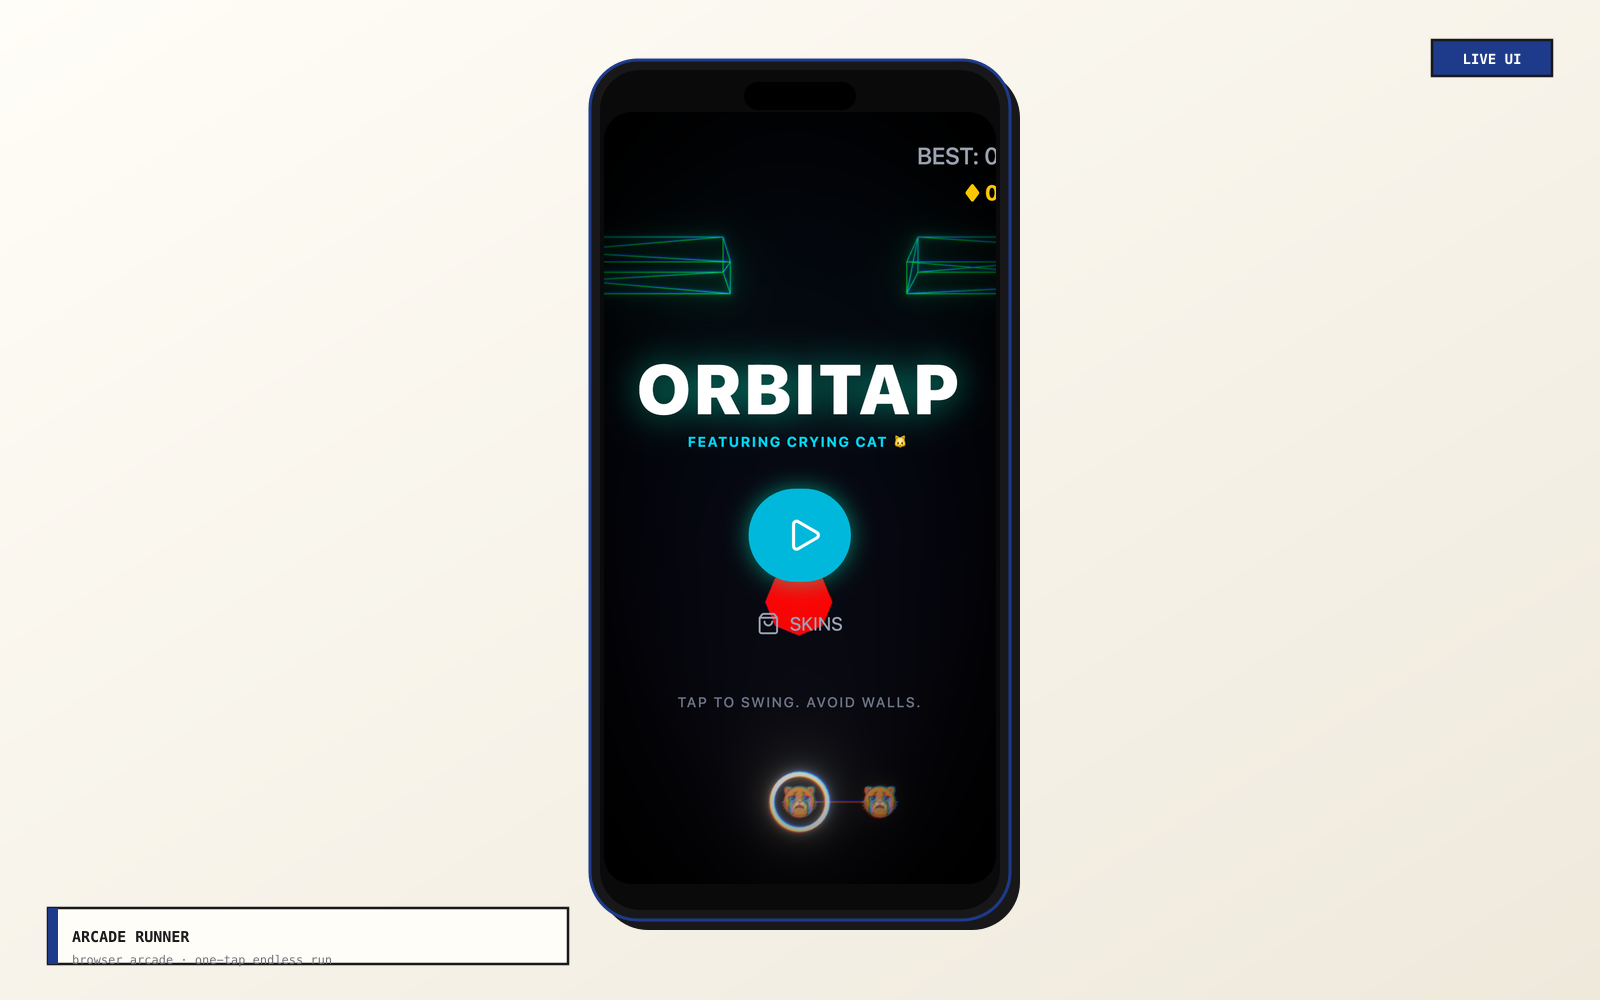
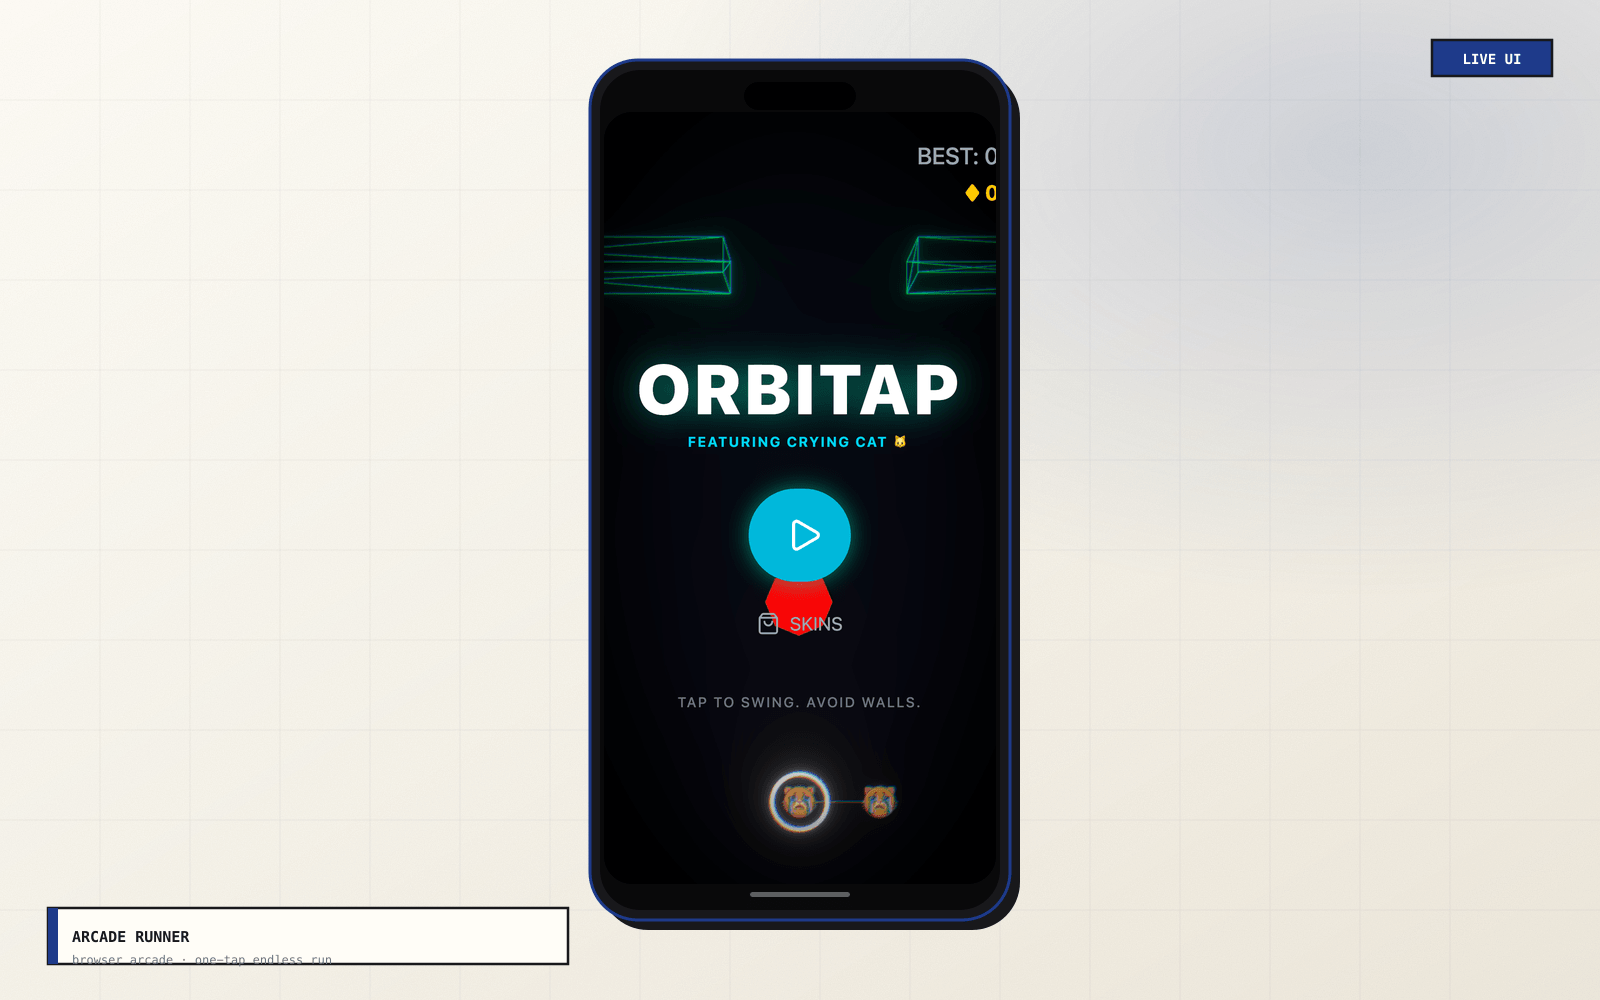
fix(portfolio): restore live product phone frames and refine Bio-Tactical description

Changed region(s): [[0.625, 0.0, 1.0, 0.372], [0.4688, 0.868, 0.5312, 0.899]]

diff --git a/src/data/games.ts b/src/data/games.ts
@@ -339,13 +339,13 @@ export const caseStudies: PortfolioProject[] = [
     narrative:
       "Mission Control for broadcast sports: turn ordinary single-camera match footage into calibrated 3D skeletal telemetry, real-time counterfactual ghost positioning, and generative next-shot physics without wearable sensors or on-court tracking hardware. Built for institutional analysts, coaching staffs, and broadcast producers who demand physical SI units and defensible possession value.",
     spatialMechanics:
-      "The platform solves monocular camera geometry frame-by-frame with confidence-weighted DLT and CRLB-bounded uncertainty, mapping 2D pixel coordinates to frozen ±10cm physical court meters across broadcast cuts and zooms. From this calibrated foundation, the system operates across four integrated intelligence engines: (1) 360° Matrix Orbit & Holographic Ghost Avatar — solves athletic inverse kinematics at 60 FPS to compute mathematically optimal angle-of-bisection recovery positions, reaction lag (Δt in ms), and alley exposure %; (2) Physics-Conditioned Next-Shot Diffusion — generates 3D counterfactual ball trajectories, landing dispersion ellipses, and Expected Return of Win Probability (ΔERWP) shifts across tactical clusters; (3) Longitudinal Biometric Load Profiling — monitors Functional Capacity Ratio (FCR), jerk, angular velocity (ω), and metabolic power to expose mechanical fatigue degradation across multi-set tournament play; and (4) Real-Time Voice Coach & Natural Language Search — streams live telemetry over WebSockets with synthetic voice alerts for critical alley exposure and instant semantic search across millions of frames.",
+      "Standard broadcast cameras constantly pan, zoom, and switch angles. Bio-Tactical Edge locks onto court lines in 3D, converting flat 2D television feeds into real-world meters (±10cm accuracy) without requiring athletes to wear sensors or venues to install tracking hardware.\n\nFrom this calibrated foundation, the system operates across four core intelligence engines:\n\n1. 3D Digital Twin & Ghost Defender: Renders full-body athlete skeletal rigs in an interactive 360° orbit at 60 FPS. When a ball is struck, the engine calculates the mathematically ideal recovery position (angle-of-bisection) and renders a holographic ghost avatar—measuring exact positional deficit (meters), reaction delay (ms), and exposed court angle.\n\n2. Next-Shot AI Predictor: A physics-conditioned generative diffusion model that predicts counterfactual shot trajectories and landing distributions, calculating win probability swings (ΔERWP) for alternative tactical choices (e.g. crosscourt angle vs. down-the-line drive).\n\n3. Biometric Load & Fatigue Profiling: Analyzes movement efficiency, acceleration spikes, and metabolic power across 5-set matches to pinpoint mechanical degradation and injury risk before unforced errors happen.\n\n4. Live Voice Coach & Semantic Search: Streams real-time tactical alerts via synthetic voice and allows analysts to query match telemetry in plain English (e.g. 'find all defensive recoveries over 2.5 meters').",
     challenges: [
-      "Monocular 3D court calibration surviving dynamic broadcast cuts, zooms, and camera motion",
-      "Zero-allocation 60 FPS Three.js skeletal kinematics with matrix transform updates",
-      "Sub-millisecond vectorized coordinate projection across 30,000+ telemetry frames",
-      "Real-time generative next-shot diffusion conditioned on striker biomechanics",
-      "Automated natural language tactical querying and PDF scouting dossier generation",
+      "Locking 3D court geometry across fast broadcast cuts, zooms, and camera motion",
+      "Rendering 60 FPS zero-allocation 3D skeletal kinematics with smooth matrix transforms",
+      "Vectorizing coordinate projection across 30,000+ telemetry frames in sub-milliseconds",
+      "Predicting next-shot trajectory distributions conditioned on striker biomechanics",
+      "Automating plain-English tactical search and 1-click PDF scouting dossiers",
     ],
     requirements: "Broadcast HD/4K Feed · GPU Accelerated Inference · Real-Time WebSockets",
     techSpecs: [

diff --git a/src/components/case-study/featured-case-study.tsx b/src/components/case-study/featured-case-study.tsx
@@ -75,7 +75,7 @@ export function FeaturedCaseStudy() {
               <p className="mb-2 font-mono text-[0.65rem] uppercase tracking-widest text-cobalt">
                 How it works
               </p>
-              <p className="text-sm leading-relaxed text-charcoal/85 sm:text-[0.95rem]">
+              <p className="text-sm leading-relaxed text-charcoal/85 sm:text-[0.95rem] whitespace-pre-line">
                 {project.spatialMechanics}
               </p>
               <div className="mt-4 flex flex-wrap gap-1.5">
